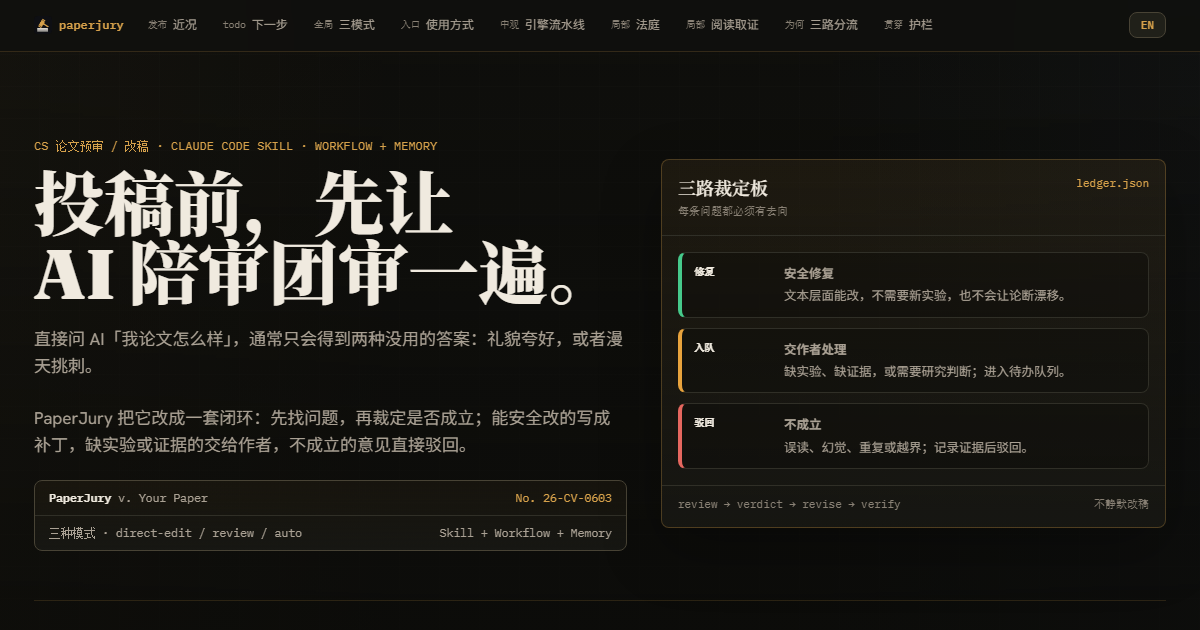
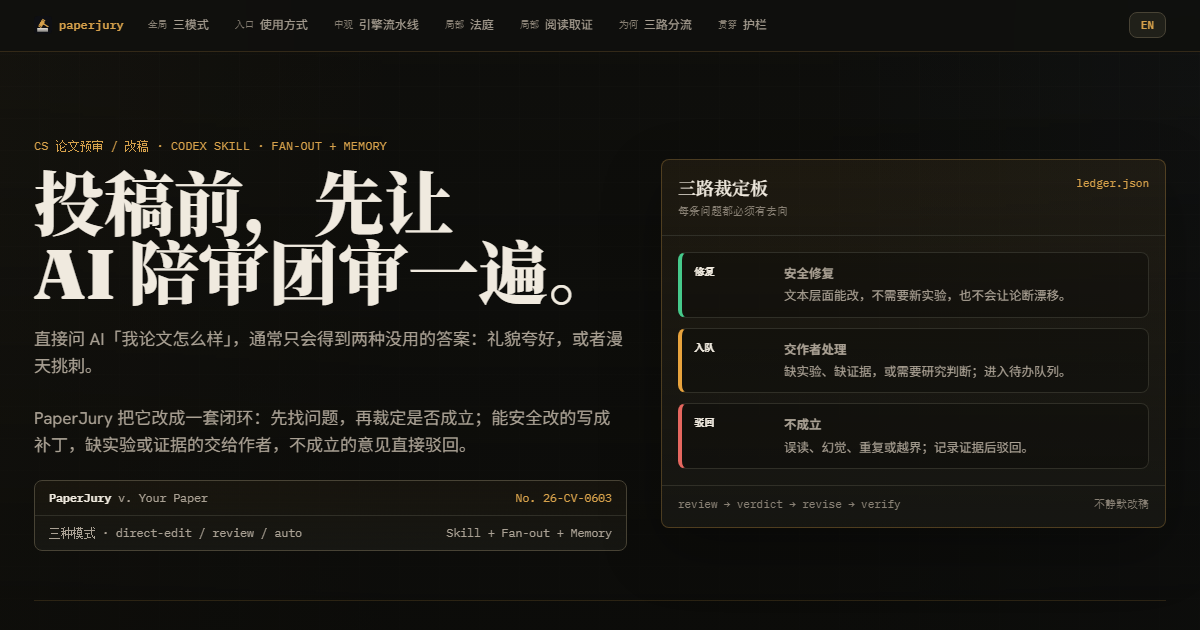
docs: sync adaptive overview themes

Changed region(s): [[0.1233, 0.0302, 0.7708, 0.0603], [0.1542, 0.2111, 0.37, 0.2413], [0.37, 0.8444, 0.4625, 0.8746]]

diff --git a/docs/overview.html b/docs/overview.html
@@ -5,19 +5,20 @@
 <meta name="viewport" content="width=device-width, initial-scale=1.0">
 <title>PaperJury · 投稿前的 AI 审稿压力测试 · 工作流总览</title>
 <meta name="description" content="PaperJury：面向 CS 会议论文的投稿前 AI 审稿压力测试。把审稿、裁定、修改、复查做成闭环：能安全改的交给补丁流程，缺实验或证据的交给作者，不成立的意见直接驳回。">
-<meta name="color-scheme" content="dark">
-<meta name="theme-color" content="#0e0f13">
+<meta name="color-scheme" content="dark light">
+<meta name="theme-color" content="#0e0f13" media="(prefers-color-scheme: dark)">
+<meta name="theme-color" content="#f5efe4" media="(prefers-color-scheme: light)">
 <meta property="og:type" content="website">
 <meta property="og:title" content="PaperJury · AI paper review stress test">
 <meta property="og:description" content="A closed-loop review–judge–revise workflow for pre-submission paper checks.">
-<!-- GH Pages social card. Regenerate overview-card.png via: msedge --headless=new --window-size=1200,630 --screenshot of overview.html?lang=en -->
+<!-- GH Pages social card. Regenerate overview-card-dark.png and overview-card-light.png via: msedge --headless=new --window-size=1200,630 --screenshot of overview.html?lang=zh&theme=dark/light -->
 <meta property="og:image" content="https://u7079256.github.io/paperjury/overview-card.png">
 <meta name="twitter:card" content="summary_large_image">
 <meta name="twitter:title" content="PaperJury · AI paper review stress test">
 <meta name="twitter:description" content="A closed-loop review–judge–revise workflow for pre-submission paper checks.">
 <meta name="twitter:image" content="https://u7079256.github.io/paperjury/overview-card.png">
 <link rel="icon" type="image/png" href="paperjury-favicon.png">
-<script>(function(){var d=document.documentElement;d.className+=' js';var lang=null;try{var m=(location.search||'').match(/[?&]lang=(en|zh)/i);if(m){lang=m[1].toLowerCase();}else{var s=localStorage.getItem('prl-lang');if(s==='en'||s==='zh')lang=s;}}catch(e){}if(lang){d.setAttribute('data-lang',lang);d.setAttribute('lang',lang);try{localStorage.setItem('prl-lang',lang);}catch(e){}}})();</script>
+<script>(function(){var d=document.documentElement;d.className+=' js';var search=location.search||'';var lang=null,forcedTheme=null;try{var m=search.match(/[?&]lang=(en|zh)/i);if(m){lang=m[1].toLowerCase();}else{var s=localStorage.getItem('prl-lang');if(s==='en'||s==='zh')lang=s;}var t=search.match(/[?&]theme=(dark|light)/i);if(t)forcedTheme=t[1].toLowerCase();}catch(e){}if(lang){d.setAttribute('data-lang',lang);d.setAttribute('lang',lang);try{localStorage.setItem('prl-lang',lang);}catch(e){}}function setTheme(v){if(v==='light'||v==='dark')d.setAttribute('data-theme',v);}if(forcedTheme){setTheme(forcedTheme);}else{try{var q=window.matchMedia&&window.matchMedia('(prefers-color-scheme: light)');if(q){var sync=function(e){setTheme(e.matches?'light':'dark')};sync(q);if(q.addEventListener)q.addEventListener('change',sync);else if(q.addListener)q.addListener(sync);}else{setTheme('dark');}}catch(e){setTheme('dark');}}})();</script>
 <style>
   @import url('https://fonts.googleapis.com/css2?family=Fraunces:opsz,wght@9..144,400;9..144,600;9..144,900&family=Hanken+Grotesk:wght@400;500;600;700&family=IBM+Plex+Mono:wght@400;500;600&family=Noto+Serif+SC:wght@600;900&family=Noto+Sans+SC:wght@400;700&display=swap');
 
@@ -295,6 +296,93 @@
   .stamp.author{color:#f2c277;border-color:rgba(232,163,61,.55)}
   .stamp.drop{color:#f0938c;border-color:rgba(229,103,95,.55)}
   .docket .cap2{padding:8px 14px;color:var(--faint);font-size:10.5px}
+
+  /* Light theme. Dark remains the default for old browsers and social previews. */
+  :root[data-theme="light"]{
+    --bg:#f5efe4; --bg2:#ede2d1;
+    --paper:#fffaf1; --paper2:#f3eadb; --raise:#eadcc7;
+    --ink:#241f18; --muted:#665d50; --faint:#8b8172;
+    --line:#ded0bc; --line2:#cbb89e;
+    --seal:#9a641e;
+    --wf:#2468c9; --human:#a95f0b; --mem:#1f7a4c; --det:#68707d; --agent:#7150aa; --danger:#b7443e;
+  }
+  :root[data-theme="light"] body::before{
+    background:
+      linear-gradient(90deg,rgba(154,100,30,.09),transparent 36%,transparent 64%,rgba(36,104,201,.07)),
+      repeating-linear-gradient(0deg,transparent 0 31px,rgba(74,56,33,.055) 32px),
+      repeating-linear-gradient(90deg,transparent 0 39px,rgba(74,56,33,.04) 40px);
+    opacity:.86}
+  :root[data-theme="light"] body::after{background:linear-gradient(180deg,rgba(255,250,241,.1),rgba(237,226,209,.68))}
+  :root[data-theme="light"] nav.bar{background:rgba(245,239,228,.88);border-bottom-color:rgba(154,100,30,.24)}
+  :root[data-theme="light"] nav.bar a:hover,
+  :root[data-theme="light"] nav.bar a.active,
+  :root[data-theme="light"] nav.bar .langbtn{box-shadow:0 1px 0 rgba(255,255,255,.62) inset}
+  :root[data-theme="light"] nav.bar .langbtn:hover,
+  :root[data-theme="light"] .runbtn:hover,
+  :root[data-theme="light"] .news-actions a:hover{color:#7b4f17;background:var(--paper);border-color:var(--seal)}
+  :root[data-theme="light"] .news-card{
+    border-color:rgba(154,100,30,.45);
+    background:
+      linear-gradient(90deg,rgba(154,100,30,.14),rgba(255,250,241,.97) 36%,rgba(36,104,201,.09)),
+      repeating-linear-gradient(135deg,rgba(154,100,30,.08) 0 1px,transparent 1px 13px);
+    box-shadow:0 18px 48px rgba(89,65,34,.14),0 0 28px rgba(154,100,30,.08)}
+  :root[data-theme="light"] .news-card.old{box-shadow:0 12px 30px rgba(89,65,34,.11)}
+  :root[data-theme="light"] .news-card::after{color:rgba(122,79,23,.38)}
+  :root[data-theme="light"] .news-date,
+  :root[data-theme="light"] .hint b,
+  :root[data-theme="light"] .pill.seal,
+  :root[data-theme="light"] .runbtn.primary,
+  :root[data-theme="light"] .cap b,
+  :root[data-theme="light"] .seat.judge .role,
+  :root[data-theme="light"] .seat.appeal .role,
+  :root[data-theme="light"] .todo-copy b{color:#7b4f17}
+  :root[data-theme="light"] .hero-visual{
+    background:linear-gradient(180deg,rgba(154,100,30,.1),rgba(255,250,241,.96));
+    box-shadow:0 22px 52px rgba(89,65,34,.16)}
+  :root[data-theme="light"] .verdict-row{background:rgba(255,250,241,.74)}
+  :root[data-theme="light"] .pill.live{color:#1f6d47}
+  :root[data-theme="light"] .tag.wf{background:rgba(36,104,201,.1);color:#1f58ad;border-color:rgba(36,104,201,.32)}
+  :root[data-theme="light"] .tag.human{background:rgba(169,95,11,.1);color:#874b08;border-color:rgba(169,95,11,.32)}
+  :root[data-theme="light"] .tag.mem{background:rgba(31,122,76,.1);color:#1f6d47;border-color:rgba(31,122,76,.32)}
+  :root[data-theme="light"] .tag.det{background:rgba(104,112,125,.12);color:#555d6a;border-color:rgba(104,112,125,.32)}
+  :root[data-theme="light"] .mode,
+  :root[data-theme="light"] .todo-card{background:linear-gradient(180deg,rgba(255,255,255,.58),var(--paper))}
+  :root[data-theme="light"] .mode .ok,
+  :root[data-theme="light"] .keep{color:#1f6d47;background:rgba(31,122,76,.08);border-color:rgba(31,122,76,.3)}
+  :root[data-theme="light"] .core,
+  :root[data-theme="light"] .caption{background:linear-gradient(180deg,rgba(154,100,30,.08),var(--paper))}
+  :root[data-theme="light"] .flowtoken{color:#fffaf1;box-shadow:0 0 14px rgba(154,100,30,.38)}
+  :root[data-theme="light"] .node.active .box,
+  :root[data-theme="light"] .seat.lit{box-shadow:0 8px 24px rgba(154,100,30,.18)}
+  :root[data-theme="light"] .court{background:linear-gradient(180deg,rgba(154,100,30,.08),transparent 42%),var(--bg2)}
+  :root[data-theme="light"] .seat.judge{background:linear-gradient(180deg,rgba(154,100,30,.1),var(--paper))}
+  :root[data-theme="light"] .seat.pros .role,
+  :root[data-theme="light"] .seat.recall .role,
+  :root[data-theme="light"] table.roster td .warn,
+  :root[data-theme="light"] .rule b{color:#9e3b36}
+  :root[data-theme="light"] .seat.def .role,
+  :root[data-theme="light"] .formula .mono,
+  :root[data-theme="light"] footer a{color:#245ead}
+  :root[data-theme="light"] .jurybox{background:rgba(113,80,170,.07)}
+  :root[data-theme="light"] .jurybox .cap-j,
+  :root[data-theme="light"] .j,
+  :root[data-theme="light"] .side.neu,
+  :root[data-theme="light"] .ac b{color:#5f4392}
+  :root[data-theme="light"] .j{background:rgba(113,80,170,.1);border-color:rgba(113,80,170,.26)}
+  :root[data-theme="light"] .j.hostile,
+  :root[data-theme="light"] .side.pros{background:rgba(183,68,62,.1);color:#9e3b36;border-color:rgba(183,68,62,.3)}
+  :root[data-theme="light"] .j.charit,
+  :root[data-theme="light"] .side.mem{background:rgba(31,122,76,.09);color:#1f6d47;border-color:rgba(31,122,76,.3)}
+  :root[data-theme="light"] .side.def{background:rgba(36,104,201,.09);color:#245ead;border-color:rgba(36,104,201,.3)}
+  :root[data-theme="light"] .side.hum{background:rgba(169,95,11,.09);color:#874b08;border-color:rgba(169,95,11,.3)}
+  :root[data-theme="light"] .side.det{background:rgba(104,112,125,.1);color:#555d6a;border-color:rgba(104,112,125,.3)}
+  :root[data-theme="light"] .engine{background:linear-gradient(180deg,rgba(36,104,201,.07),var(--bg2));border-color:rgba(36,104,201,.24)}
+  :root[data-theme="light"] .route .card:hover{box-shadow:0 10px 28px rgba(89,65,34,.14)}
+  :root[data-theme="light"] .docket{background:var(--bg2)}
+  :root[data-theme="light"] .stamp.fix{color:#1f6d47;border-color:rgba(31,122,76,.42)}
+  :root[data-theme="light"] .stamp.author,
+  :root[data-theme="light"] .caveat b{color:#874b08;border-color:rgba(169,95,11,.42)}
+  :root[data-theme="light"] .stamp.drop{color:#9e3b36;border-color:rgba(183,68,62,.42)}
   @media(max-width:520px){
     .wrap{padding-left:24px;padding-right:24px}
     header.hero{padding-top:62px}

diff --git a/plugins/paperjury-codex/docs/overview.html b/plugins/paperjury-codex/docs/overview.html
@@ -5,19 +5,20 @@
 <meta name="viewport" content="width=device-width, initial-scale=1.0">
 <title>PaperJury · 投稿前的 AI 审稿压力测试 · 工作流总览</title>
 <meta name="description" content="PaperJury：面向 CS 会议论文的投稿前 AI 审稿压力测试。把审稿、裁定、修改、复查做成闭环：能安全改的交给补丁流程，缺实验或证据的交给作者，不成立的意见直接驳回。">
-<meta name="color-scheme" content="dark">
-<meta name="theme-color" content="#0e0f13">
+<meta name="color-scheme" content="dark light">
+<meta name="theme-color" content="#0e0f13" media="(prefers-color-scheme: dark)">
+<meta name="theme-color" content="#f5efe4" media="(prefers-color-scheme: light)">
 <meta property="og:type" content="website">
 <meta property="og:title" content="PaperJury · AI paper review stress test">
 <meta property="og:description" content="A closed-loop review–judge–revise workflow for pre-submission paper checks.">
-<!-- GH Pages social card. Regenerate overview-card.png via: msedge --headless=new --window-size=1200,630 --screenshot of overview.html?lang=en -->
+<!-- GH Pages social card. Regenerate overview-card-dark.png and overview-card-light.png via: msedge --headless=new --window-size=1200,630 --screenshot of overview.html?lang=zh&theme=dark/light -->
 <meta property="og:image" content="https://u7079256.github.io/paperjury/overview-card.png">
 <meta name="twitter:card" content="summary_large_image">
 <meta name="twitter:title" content="PaperJury · AI paper review stress test">
 <meta name="twitter:description" content="A closed-loop review–judge–revise workflow for pre-submission paper checks.">
 <meta name="twitter:image" content="https://u7079256.github.io/paperjury/overview-card.png">
 <link rel="icon" type="image/png" href="paperjury-favicon.png">
-<script>(function(){var d=document.documentElement;d.className+=' js';var lang=null;try{var m=(location.search||'').match(/[?&]lang=(en|zh)/i);if(m){lang=m[1].toLowerCase();}else{var s=localStorage.getItem('prl-lang');if(s==='en'||s==='zh')lang=s;}}catch(e){}if(lang){d.setAttribute('data-lang',lang);d.setAttribute('lang',lang);try{localStorage.setItem('prl-lang',lang);}catch(e){}}})();</script>
+<script>(function(){var d=document.documentElement;d.className+=' js';var search=location.search||'';var lang=null,forcedTheme=null;try{var m=search.match(/[?&]lang=(en|zh)/i);if(m){lang=m[1].toLowerCase();}else{var s=localStorage.getItem('prl-lang');if(s==='en'||s==='zh')lang=s;}var t=search.match(/[?&]theme=(dark|light)/i);if(t)forcedTheme=t[1].toLowerCase();}catch(e){}if(lang){d.setAttribute('data-lang',lang);d.setAttribute('lang',lang);try{localStorage.setItem('prl-lang',lang);}catch(e){}}function setTheme(v){if(v==='light'||v==='dark')d.setAttribute('data-theme',v);}if(forcedTheme){setTheme(forcedTheme);}else{try{var q=window.matchMedia&&window.matchMedia('(prefers-color-scheme: light)');if(q){var sync=function(e){setTheme(e.matches?'light':'dark')};sync(q);if(q.addEventListener)q.addEventListener('change',sync);else if(q.addListener)q.addListener(sync);}else{setTheme('dark');}}catch(e){setTheme('dark');}}})();</script>
 <style>
   @import url('https://fonts.googleapis.com/css2?family=Fraunces:opsz,wght@9..144,400;9..144,600;9..144,900&family=Hanken+Grotesk:wght@400;500;600;700&family=IBM+Plex+Mono:wght@400;500;600&family=Noto+Serif+SC:wght@600;900&family=Noto+Sans+SC:wght@400;700&display=swap');
 
@@ -295,6 +296,93 @@
   .stamp.author{color:#f2c277;border-color:rgba(232,163,61,.55)}
   .stamp.drop{color:#f0938c;border-color:rgba(229,103,95,.55)}
   .docket .cap2{padding:8px 14px;color:var(--faint);font-size:10.5px}
+
+  /* Light theme. Dark remains the default for old browsers and social previews. */
+  :root[data-theme="light"]{
+    --bg:#f5efe4; --bg2:#ede2d1;
+    --paper:#fffaf1; --paper2:#f3eadb; --raise:#eadcc7;
+    --ink:#241f18; --muted:#665d50; --faint:#8b8172;
+    --line:#ded0bc; --line2:#cbb89e;
+    --seal:#9a641e;
+    --wf:#2468c9; --human:#a95f0b; --mem:#1f7a4c; --det:#68707d; --agent:#7150aa; --danger:#b7443e;
+  }
+  :root[data-theme="light"] body::before{
+    background:
+      linear-gradient(90deg,rgba(154,100,30,.09),transparent 36%,transparent 64%,rgba(36,104,201,.07)),
+      repeating-linear-gradient(0deg,transparent 0 31px,rgba(74,56,33,.055) 32px),
+      repeating-linear-gradient(90deg,transparent 0 39px,rgba(74,56,33,.04) 40px);
+    opacity:.86}
+  :root[data-theme="light"] body::after{background:linear-gradient(180deg,rgba(255,250,241,.1),rgba(237,226,209,.68))}
+  :root[data-theme="light"] nav.bar{background:rgba(245,239,228,.88);border-bottom-color:rgba(154,100,30,.24)}
+  :root[data-theme="light"] nav.bar a:hover,
+  :root[data-theme="light"] nav.bar a.active,
+  :root[data-theme="light"] nav.bar .langbtn{box-shadow:0 1px 0 rgba(255,255,255,.62) inset}
+  :root[data-theme="light"] nav.bar .langbtn:hover,
+  :root[data-theme="light"] .runbtn:hover,
+  :root[data-theme="light"] .news-actions a:hover{color:#7b4f17;background:var(--paper);border-color:var(--seal)}
+  :root[data-theme="light"] .news-card{
+    border-color:rgba(154,100,30,.45);
+    background:
+      linear-gradient(90deg,rgba(154,100,30,.14),rgba(255,250,241,.97) 36%,rgba(36,104,201,.09)),
+      repeating-linear-gradient(135deg,rgba(154,100,30,.08) 0 1px,transparent 1px 13px);
+    box-shadow:0 18px 48px rgba(89,65,34,.14),0 0 28px rgba(154,100,30,.08)}
+  :root[data-theme="light"] .news-card.old{box-shadow:0 12px 30px rgba(89,65,34,.11)}
+  :root[data-theme="light"] .news-card::after{color:rgba(122,79,23,.38)}
+  :root[data-theme="light"] .news-date,
+  :root[data-theme="light"] .hint b,
+  :root[data-theme="light"] .pill.seal,
+  :root[data-theme="light"] .runbtn.primary,
+  :root[data-theme="light"] .cap b,
+  :root[data-theme="light"] .seat.judge .role,
+  :root[data-theme="light"] .seat.appeal .role,
+  :root[data-theme="light"] .todo-copy b{color:#7b4f17}
+  :root[data-theme="light"] .hero-visual{
+    background:linear-gradient(180deg,rgba(154,100,30,.1),rgba(255,250,241,.96));
+    box-shadow:0 22px 52px rgba(89,65,34,.16)}
+  :root[data-theme="light"] .verdict-row{background:rgba(255,250,241,.74)}
+  :root[data-theme="light"] .pill.live{color:#1f6d47}
+  :root[data-theme="light"] .tag.wf{background:rgba(36,104,201,.1);color:#1f58ad;border-color:rgba(36,104,201,.32)}
+  :root[data-theme="light"] .tag.human{background:rgba(169,95,11,.1);color:#874b08;border-color:rgba(169,95,11,.32)}
+  :root[data-theme="light"] .tag.mem{background:rgba(31,122,76,.1);color:#1f6d47;border-color:rgba(31,122,76,.32)}
+  :root[data-theme="light"] .tag.det{background:rgba(104,112,125,.12);color:#555d6a;border-color:rgba(104,112,125,.32)}
+  :root[data-theme="light"] .mode,
+  :root[data-theme="light"] .todo-card{background:linear-gradient(180deg,rgba(255,255,255,.58),var(--paper))}
+  :root[data-theme="light"] .mode .ok,
+  :root[data-theme="light"] .keep{color:#1f6d47;background:rgba(31,122,76,.08);border-color:rgba(31,122,76,.3)}
+  :root[data-theme="light"] .core,
+  :root[data-theme="light"] .caption{background:linear-gradient(180deg,rgba(154,100,30,.08),var(--paper))}
+  :root[data-theme="light"] .flowtoken{color:#fffaf1;box-shadow:0 0 14px rgba(154,100,30,.38)}
+  :root[data-theme="light"] .node.active .box,
+  :root[data-theme="light"] .seat.lit{box-shadow:0 8px 24px rgba(154,100,30,.18)}
+  :root[data-theme="light"] .court{background:linear-gradient(180deg,rgba(154,100,30,.08),transparent 42%),var(--bg2)}
+  :root[data-theme="light"] .seat.judge{background:linear-gradient(180deg,rgba(154,100,30,.1),var(--paper))}
+  :root[data-theme="light"] .seat.pros .role,
+  :root[data-theme="light"] .seat.recall .role,
+  :root[data-theme="light"] table.roster td .warn,
+  :root[data-theme="light"] .rule b{color:#9e3b36}
+  :root[data-theme="light"] .seat.def .role,
+  :root[data-theme="light"] .formula .mono,
+  :root[data-theme="light"] footer a{color:#245ead}
+  :root[data-theme="light"] .jurybox{background:rgba(113,80,170,.07)}
+  :root[data-theme="light"] .jurybox .cap-j,
+  :root[data-theme="light"] .j,
+  :root[data-theme="light"] .side.neu,
+  :root[data-theme="light"] .ac b{color:#5f4392}
+  :root[data-theme="light"] .j{background:rgba(113,80,170,.1);border-color:rgba(113,80,170,.26)}
+  :root[data-theme="light"] .j.hostile,
+  :root[data-theme="light"] .side.pros{background:rgba(183,68,62,.1);color:#9e3b36;border-color:rgba(183,68,62,.3)}
+  :root[data-theme="light"] .j.charit,
+  :root[data-theme="light"] .side.mem{background:rgba(31,122,76,.09);color:#1f6d47;border-color:rgba(31,122,76,.3)}
+  :root[data-theme="light"] .side.def{background:rgba(36,104,201,.09);color:#245ead;border-color:rgba(36,104,201,.3)}
+  :root[data-theme="light"] .side.hum{background:rgba(169,95,11,.09);color:#874b08;border-color:rgba(169,95,11,.3)}
+  :root[data-theme="light"] .side.det{background:rgba(104,112,125,.1);color:#555d6a;border-color:rgba(104,112,125,.3)}
+  :root[data-theme="light"] .engine{background:linear-gradient(180deg,rgba(36,104,201,.07),var(--bg2));border-color:rgba(36,104,201,.24)}
+  :root[data-theme="light"] .route .card:hover{box-shadow:0 10px 28px rgba(89,65,34,.14)}
+  :root[data-theme="light"] .docket{background:var(--bg2)}
+  :root[data-theme="light"] .stamp.fix{color:#1f6d47;border-color:rgba(31,122,76,.42)}
+  :root[data-theme="light"] .stamp.author,
+  :root[data-theme="light"] .caveat b{color:#874b08;border-color:rgba(169,95,11,.42)}
+  :root[data-theme="light"] .stamp.drop{color:#9e3b36;border-color:rgba(183,68,62,.42)}
   @media(max-width:520px){
     .wrap{padding-left:24px;padding-right:24px}
     header.hero{padding-top:62px}

diff --git a/README.md b/README.md
@@ -18,7 +18,13 @@
 </p>
 
 <p align="center">
-  <a href="https://u7079256.github.io/paperjury/overview.html?lang=zh"><img src="docs/overview-card.png" alt="PaperJury 交互式总览" width="760"></a>
+  <a href="https://u7079256.github.io/paperjury/overview.html?lang=zh">
+    <picture>
+      <source media="(prefers-color-scheme: dark)" srcset="docs/overview-card-dark.png">
+      <source media="(prefers-color-scheme: light)" srcset="docs/overview-card-light.png">
+      <img src="docs/overview-card.png" alt="PaperJury interactive overview" width="760">
+    </picture>
+  </a>
 </p>
 
 **PaperJury Codex 是 PaperJury 的 Codex 版。** 它把投稿前自查做成一套闭环：**审稿 → 裁定 → 修改 → 复查**。你可以让它像 reviewer 一样挑问题，也可以让它安全地改一处 LaTeX / Markdown；真正落稿前，它会先把补丁交给你确认。

diff --git a/README.zh-CN.md b/README.zh-CN.md
@@ -18,7 +18,13 @@
 </p>
 
 <p align="center">
-  <a href="https://u7079256.github.io/paperjury/overview.html?lang=zh"><img src="docs/overview-card.png" alt="PaperJury 交互式总览" width="760"></a>
+  <a href="https://u7079256.github.io/paperjury/overview.html?lang=zh">
+    <picture>
+      <source media="(prefers-color-scheme: dark)" srcset="docs/overview-card-dark.png">
+      <source media="(prefers-color-scheme: light)" srcset="docs/overview-card-light.png">
+      <img src="docs/overview-card.png" alt="PaperJury interactive overview" width="760">
+    </picture>
+  </a>
 </p>
 
 **PaperJury Codex 是 PaperJury 的 Codex 版。** 它把投稿前自查做成一套闭环：**审稿 → 裁定 → 修改 → 复查**。你可以让它像 reviewer 一样挑问题，也可以让它安全地改一处 LaTeX / Markdown；真正落稿前，它会先把补丁交给你确认。

diff --git a/plugins/paperjury-codex/README.md b/plugins/paperjury-codex/README.md
@@ -18,7 +18,13 @@
 </p>
 
 <p align="center">
-  <a href="https://u7079256.github.io/paperjury/overview.html?lang=zh"><img src="docs/overview-card.png" alt="PaperJury 交互式总览" width="760"></a>
+  <a href="https://u7079256.github.io/paperjury/overview.html?lang=zh">
+    <picture>
+      <source media="(prefers-color-scheme: dark)" srcset="docs/overview-card-dark.png">
+      <source media="(prefers-color-scheme: light)" srcset="docs/overview-card-light.png">
+      <img src="docs/overview-card.png" alt="PaperJury interactive overview" width="760">
+    </picture>
+  </a>
 </p>
 
 **PaperJury Codex 是 PaperJury 的 Codex 版。** 它把投稿前自查做成一套闭环：**审稿 → 裁定 → 修改 → 复查**。你可以让它像 reviewer 一样挑问题，也可以让它安全地改一处 LaTeX / Markdown；真正落稿前，它会先把补丁交给你确认。

diff --git a/plugins/paperjury-codex/README.zh-CN.md b/plugins/paperjury-codex/README.zh-CN.md
@@ -18,7 +18,13 @@
 </p>
 
 <p align="center">
-  <a href="https://u7079256.github.io/paperjury/overview.html?lang=zh"><img src="docs/overview-card.png" alt="PaperJury 交互式总览" width="760"></a>
+  <a href="https://u7079256.github.io/paperjury/overview.html?lang=zh">
+    <picture>
+      <source media="(prefers-color-scheme: dark)" srcset="docs/overview-card-dark.png">
+      <source media="(prefers-color-scheme: light)" srcset="docs/overview-card-light.png">
+      <img src="docs/overview-card.png" alt="PaperJury interactive overview" width="760">
+    </picture>
+  </a>
 </p>
 
 **PaperJury Codex 是 PaperJury 的 Codex 版。** 它把投稿前自查做成一套闭环：**审稿 → 裁定 → 修改 → 复查**。你可以让它像 reviewer 一样挑问题，也可以让它安全地改一处 LaTeX / Markdown；真正落稿前，它会先把补丁交给你确认。